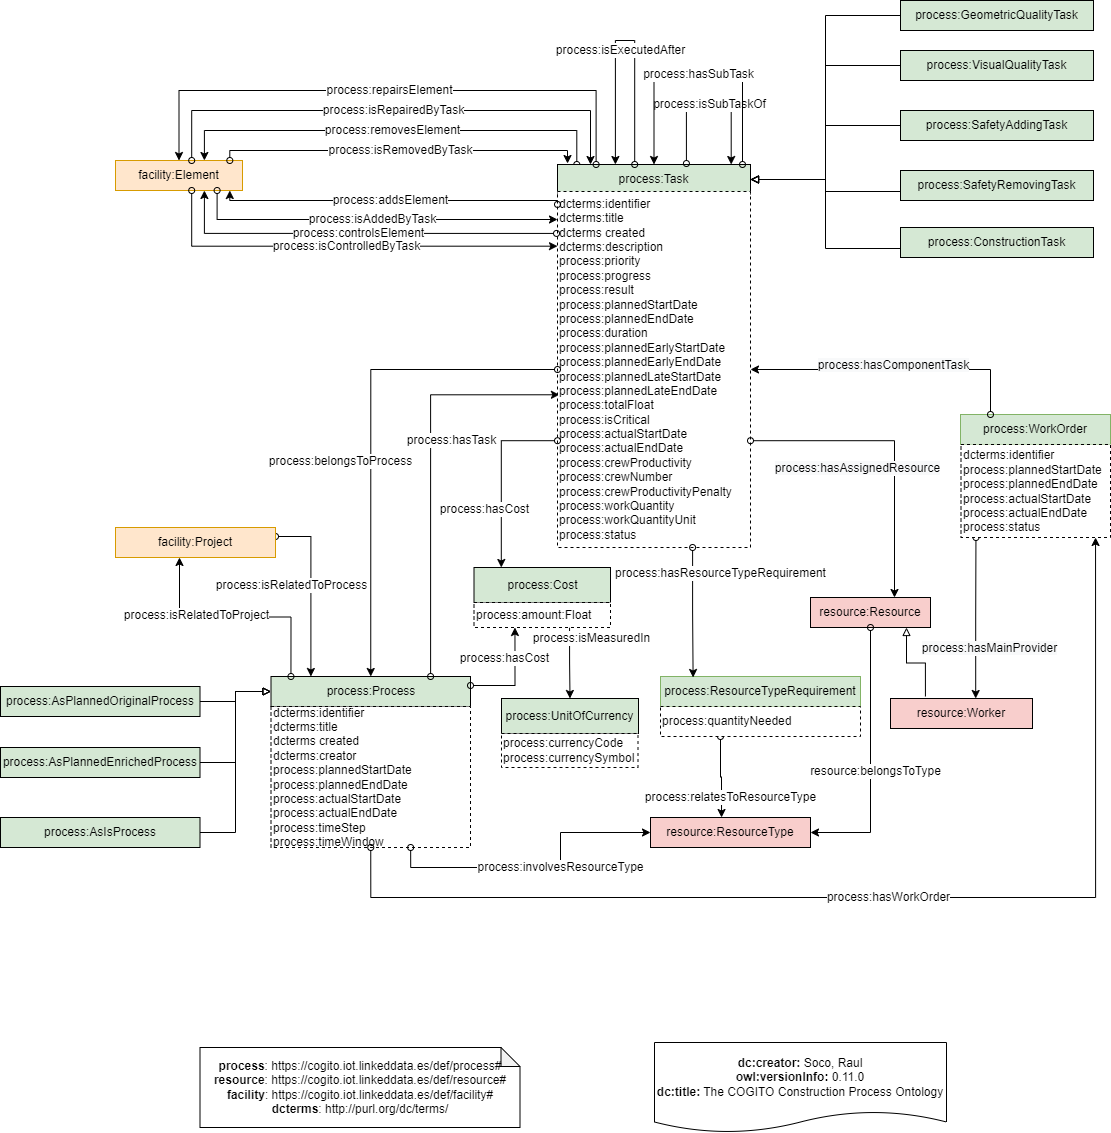
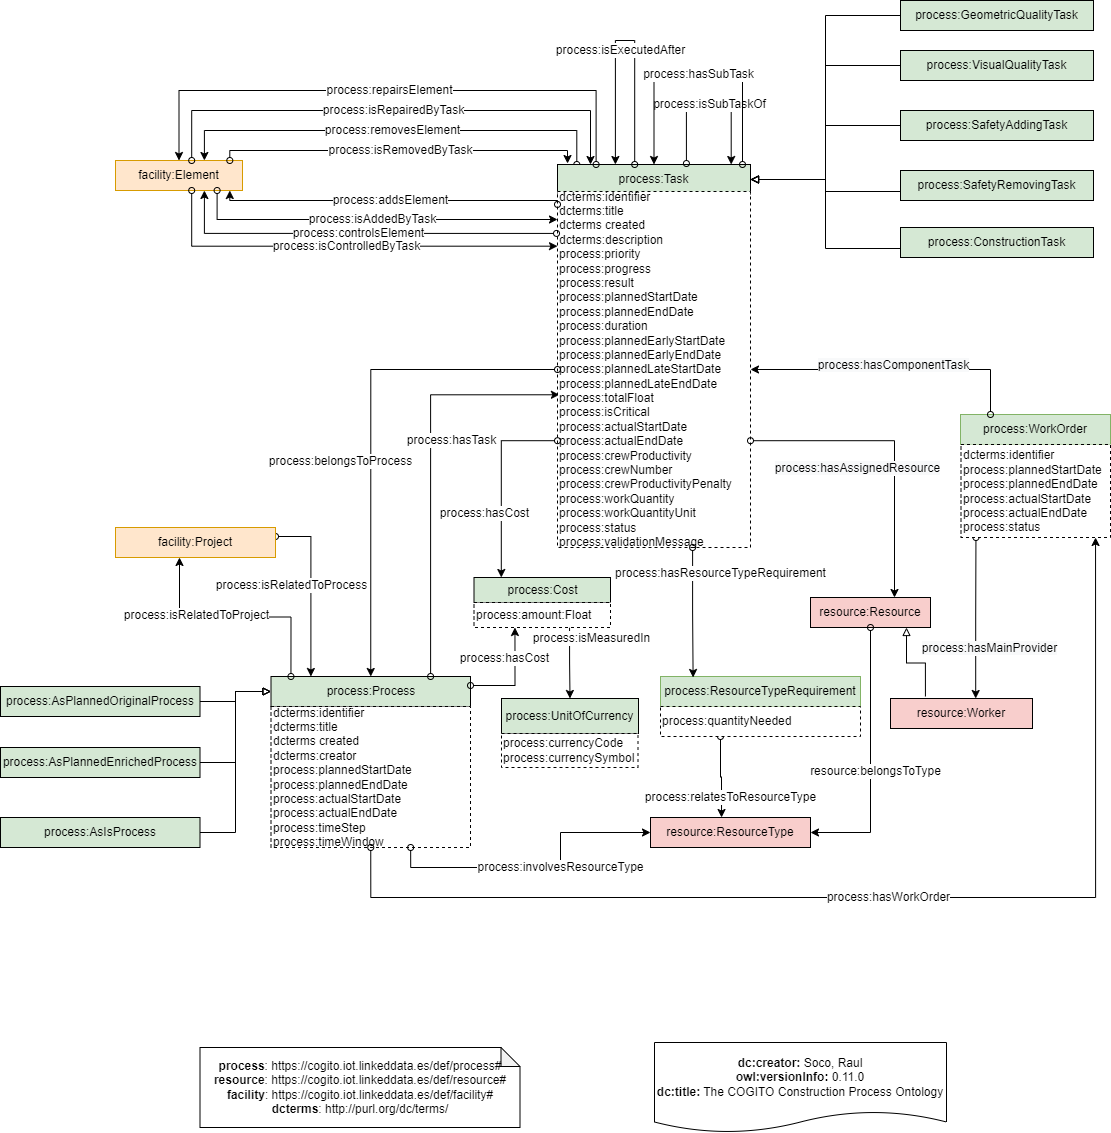
Adding validation message

Changed region(s): [[0.3978, 0.1545, 0.6733, 0.5252]]

diff --git a/documentation/index-en.html b/documentation/index-en.html
@@ -6,7 +6,7 @@
 
 
 <!-- SCHEMA.ORG METADATA -->
-<script type="application/ld+json">{"@context":"https://schema.org","@type":"TechArticle","url":"https://cogito.iot.linkeddata.es/def/process#","image":"http://vowl.visualdataweb.org/webvowl/#iri=https://cogito.iot.linkeddata.es/def/process#","name":"Process Ontology", "headline":"The COGITO Process ontology aims at modelling the construction process.", "datePublished":"Fri Jan 13 12:07:29 CET 2023", "version":"0.11.0", "license":"http://purl.org/NET/rdflicense/cc-by4.0", "author":[{"@type":"Person","name":"María Poveda Villalón"},{"@type":"Person","name":"Raúl García Castro"},{"@type":"Person","name":"Socorro  Bernardos Galindo"}]}</script>
+<script type="application/ld+json">{"@context":"https://schema.org","@type":"TechArticle","url":"https://cogito.iot.linkeddata.es/def/process#","image":"http://vowl.visualdataweb.org/webvowl/#iri=https://cogito.iot.linkeddata.es/def/process#","name":"Process Ontology", "headline":"The COGITO Process ontology aims at modelling the construction process.", "datePublished":"Tue Mar 28 11:57:19 CEST 2023", "version":"0.11.0", "license":"http://purl.org/NET/rdflicense/cc-by4.0", "author":[{"@type":"Person","name":"María Poveda Villalón"},{"@type":"Person","name":"Raúl García Castro"},{"@type":"Person","name":"Socorro  Bernardos Galindo"}]}</script>
 
 <script src="resources/jquery.js"></script> 
 <script src="resources/marked.min.js"></script> 
@@ -86,7 +86,7 @@ The COGITO Process ontology aims at modelling the construction process.</span>
 <!--INTRODUCTION SECTION-->
     <div id="introduction"><h2 id="intro" class="list">Introduction <span class="backlink"> back to <a href="#toc">ToC</a></span></h2>
 <span class="markdown">
-This This document describes the results of the Process ontology for the COGITO project.</span>
+This is a place holder text for the introduction. The introduction should briefly describe the ontology, its motivation, state of the art and goals.</span>
 <div id="namespacedeclarations">
 <h3 id="ns" class="list">Namespace declarations</h3>
 <div id="ns" align="center">
@@ -405,6 +405,12 @@ This ontology has the following classes and properties.</span>
    <li>
       <a href="#totalFloat"
          title="https://cogito.iot.linkeddata.es/def/process#totalFloat">total float</a>
+   </li>
+   <li>
+      <a href="#validationMessage"
+         title="https://cogito.iot.linkeddata.es/def/process#validationMessage">
+         <span>validation message</span>
+      </a>
    </li>
    <li>
       <a href="#workQuantity"
@@ -1755,6 +1761,12 @@ This section provides details for each class and property defined by Process Ont
             title="https://cogito.iot.linkeddata.es/def/process#totalFloat">total float</a>
       </li>
       <li>
+         <a href="#validationMessage"
+            title="https://cogito.iot.linkeddata.es/def/process#validationMessage">
+            <span>validation message</span>
+         </a>
+      </li>
+      <li>
          <a href="#workQuantity"
             title="https://cogito.iot.linkeddata.es/def/process#workQuantity">work quantity</a>
       </li>
@@ -2156,7 +2168,7 @@ This section provides details for each class and property defined by Process Ont
       <p>
          <strong>IRI:</strong> https://cogito.iot.linkeddata.es/def/process#status</p>
       <div class="comment">
-         <span class="markdown">A property indicating the status of an entity (especially a process:WorkOrder)</span>
+         <span class="markdown">A property indicating the status of an entity (especially a process:WorkOrder and a process:Task)</span>
       </div>
    </div>
    <div class="entity" id="timeStep">
@@ -2214,6 +2226,17 @@ This section provides details for each class and property defined by Process Ont
                   title="http://www.w3.org/2001/XMLSchema#nonNegativeInteger">non negative integer</a>
             </dd>
          </dl>
+      </div>
+   </div>
+   <div class="entity" id="validationMessage">
+      <h3>validation message<sup class="type-dp" title="data property">dp</sup>
+         <span class="backlink"> back to <a href="#toc">ToC</a> or <a href="#dataproperties">Data Property ToC</a>
+         </span>
+      </h3>
+      <p>
+         <strong>IRI:</strong> https://cogito.iot.linkeddata.es/def/process#validationMessage</p>
+      <div class="comment">
+         <span class="markdown">A property indicating the validation message of an entity (especially a process:Task)</span>
       </div>
    </div>
    <div class="entity" id="workQuantity">
